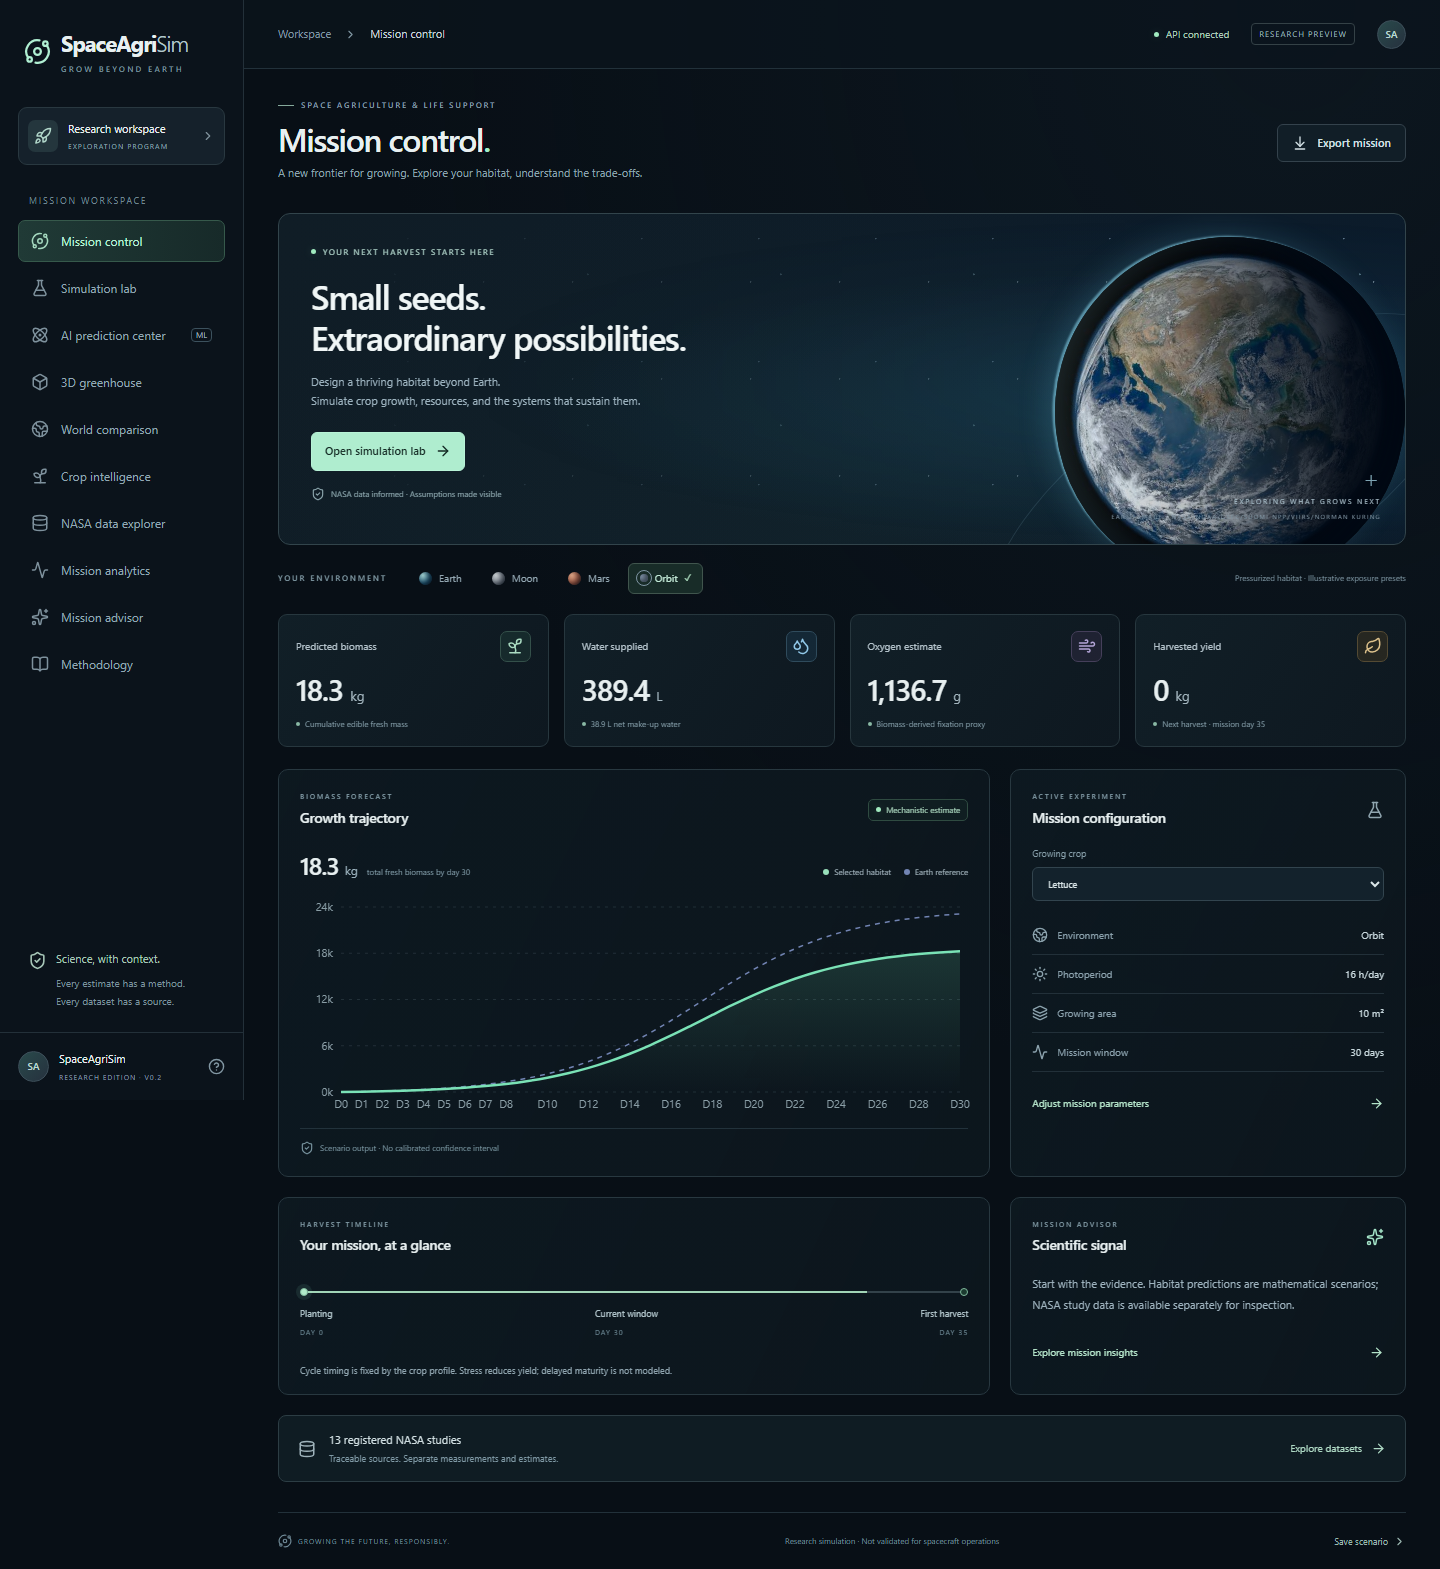
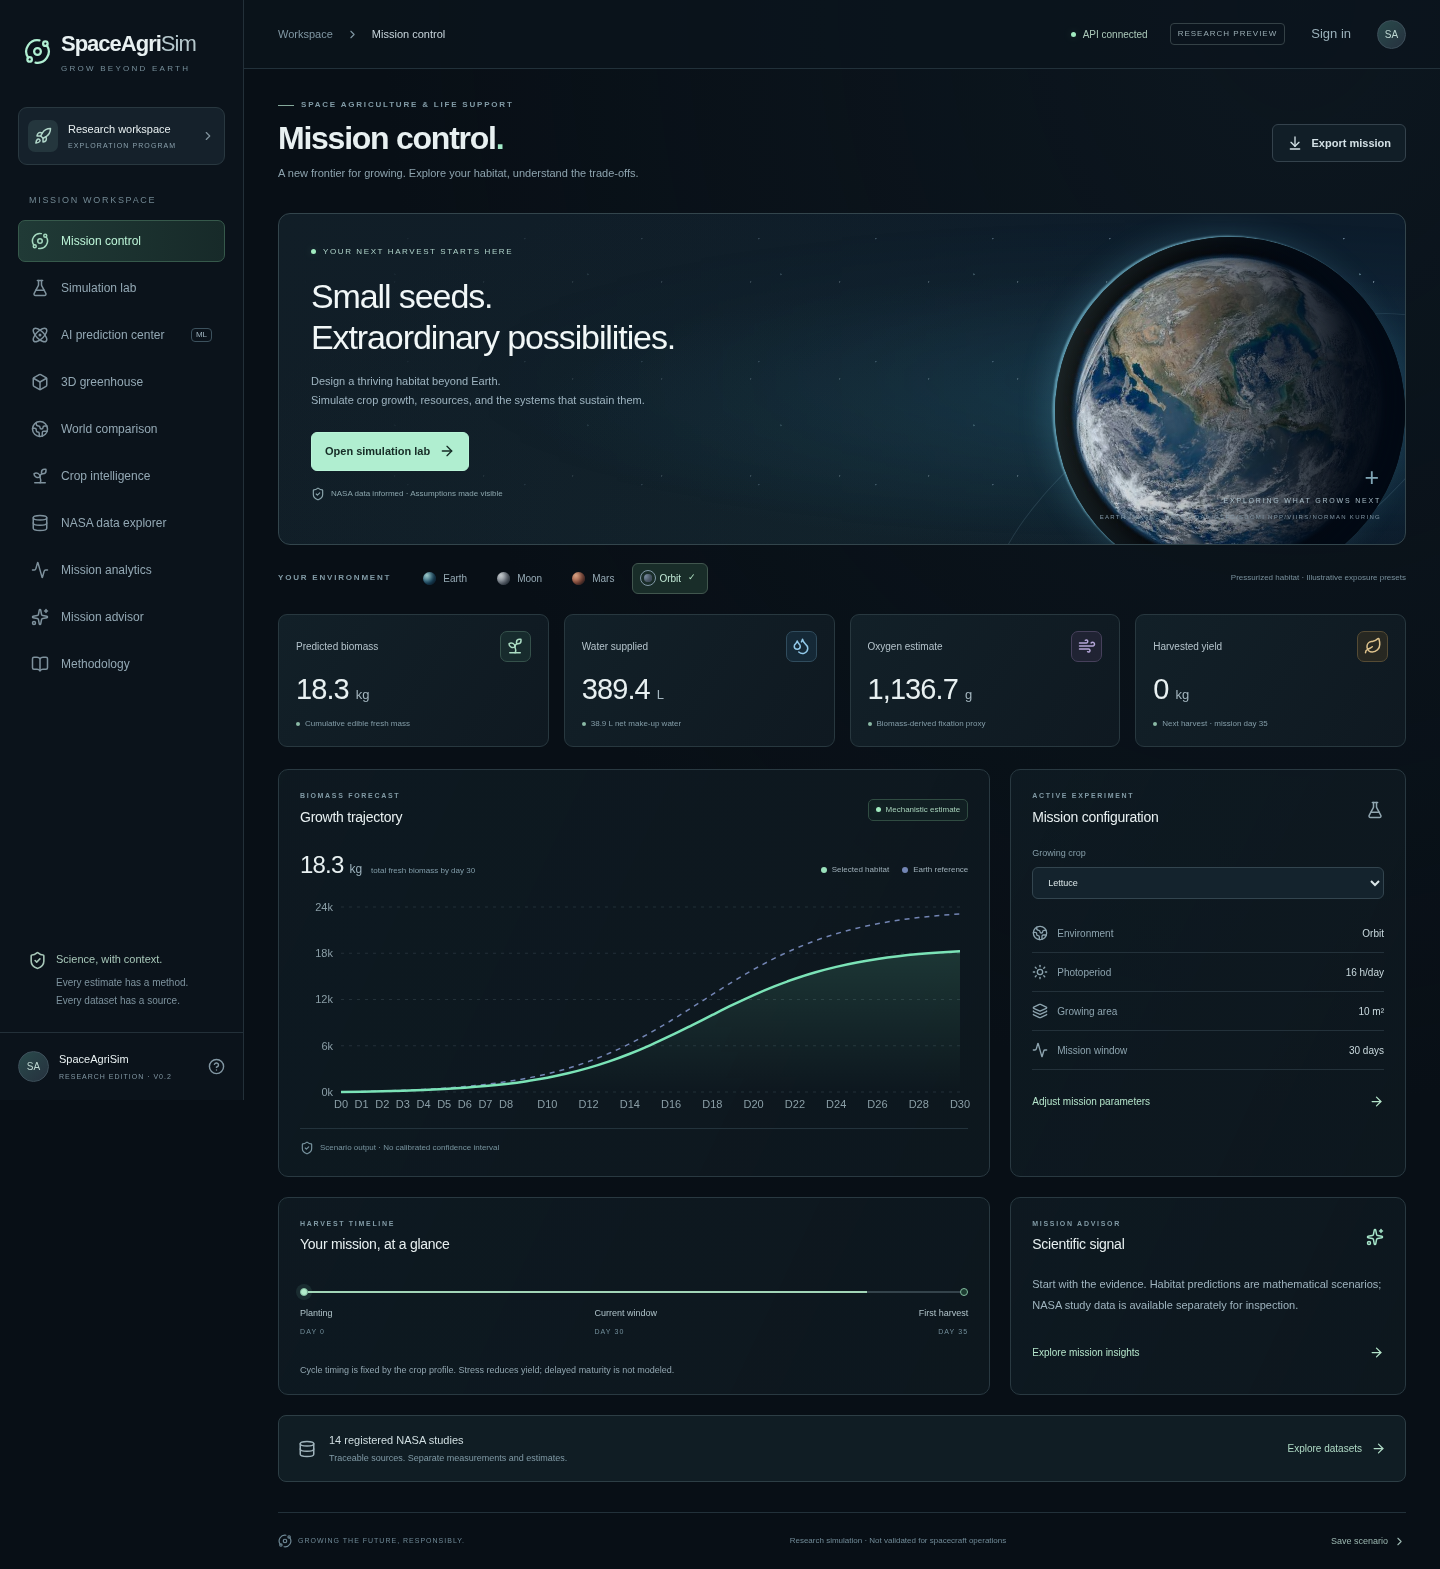
test: restore cross-platform browser test execution
- playwright.config.js hard-coded a Windows venv interpreter path
  (..\backend\.venv\Scripts\python.exe), so the suite could not run on
  Linux or macOS at all. Resolve the interpreter by platform, with a PYTHON
  env override for CI.
- Replace a literal R2: -0.153 assertion with a property assertion
  (R2 is negative). The literal was the pre-Phase-6 artifact value; the metric
  moves with the scikit-learn version used to regenerate artifacts, so pinning
  it tested the environment rather than the product.
- Verified: 15/15 Playwright tests pass on desktop (1440x1100), tablet
  (820x1180) and mobile (Pixel 7).
- No frontend/src or frontend/public change: git diff vs cf1d6c3 in those paths
  is empty.

diff --git a/frontend/e2e/mission.spec.js b/frontend/e2e/mission.spec.js
@@ -81,7 +81,12 @@ test("saved models use real artifacts and reject unsupported scientific scope", 
   await expect(
     page.getByRole("heading", { name: "Mizuna harvest experiment" }),
   ).toBeVisible();
-  await expect(page.getByText(/R2: -0.153/)).toBeVisible();
+  // Assert the invariant the UI is meant to communicate - that this model is
+  // reported honestly as failing to beat its baseline (negative R2) - rather
+  // than a literal metric. The exact number moves with the scikit-learn version
+  // used to regenerate the artifact (see docs/ML_TRAINING_REPORT.md §2), so
+  // pinning it here only tests the environment, not the product.
+  await expect(page.getByText(/R2: -\d/)).toBeVisible();
   await page
     .getByRole("button", { name: "Run saved model", exact: true })
     .click();

diff --git a/frontend/playwright.config.js b/frontend/playwright.config.js
@@ -30,8 +30,10 @@ export default defineConfig({
   ],
   webServer: [
     {
-      command:
-        "..\\backend\\.venv\\Scripts\\python.exe -m uvicorn app.main:app --app-dir ..\\backend --host 127.0.0.1 --port 8000",
+      // Resolve the interpreter cross-platform instead of hard-coding a Windows
+      // venv path, so the suite runs on Linux/macOS CI as well as on Windows.
+      // PYTHON env var wins if the operator needs to point at a specific venv.
+      command: `${process.env.PYTHON || (process.platform === "win32" ? "..\\\\backend\\\\.venv\\\\Scripts\\\\python.exe" : "python3")} -m uvicorn app.main:app --app-dir ../backend --host 127.0.0.1 --port 8000`,
       url: "http://127.0.0.1:8000/api/health",
       reuseExistingServer: !process.env.CI,
       timeout: 60000,
